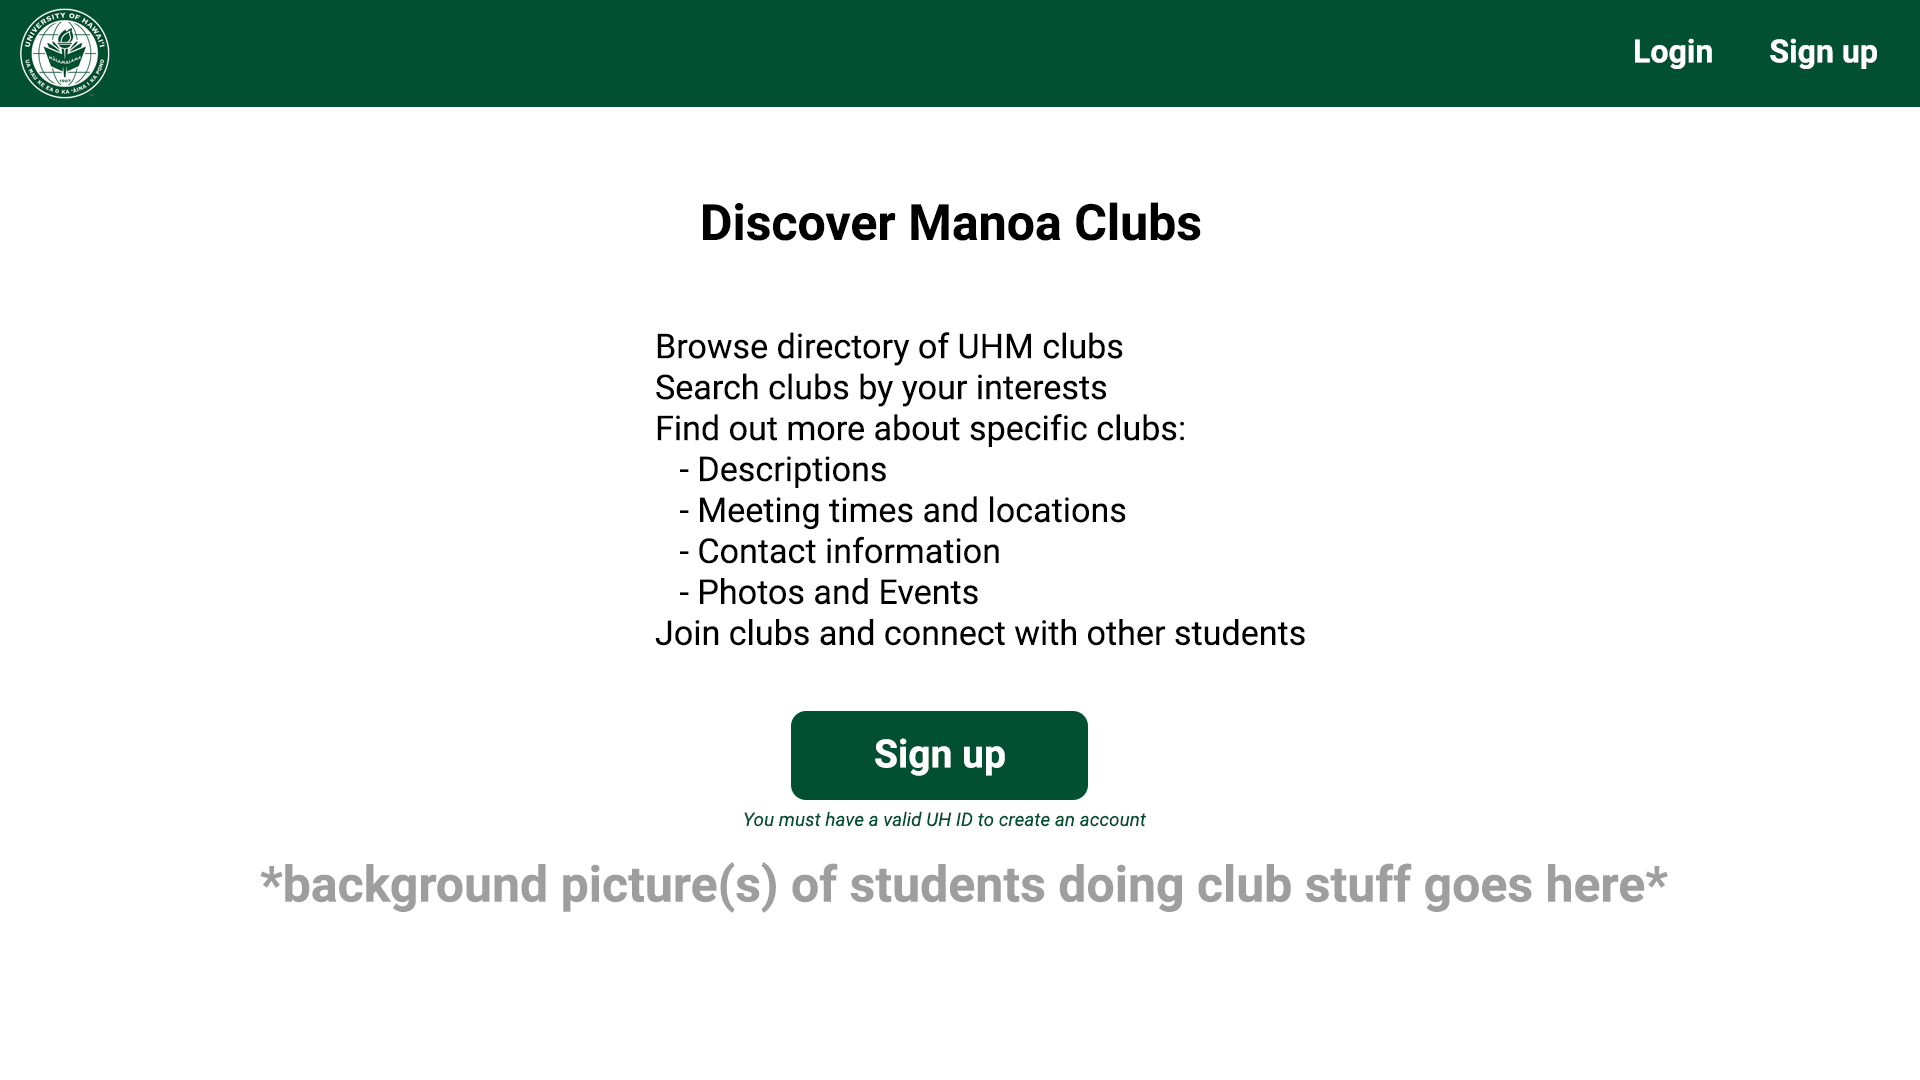
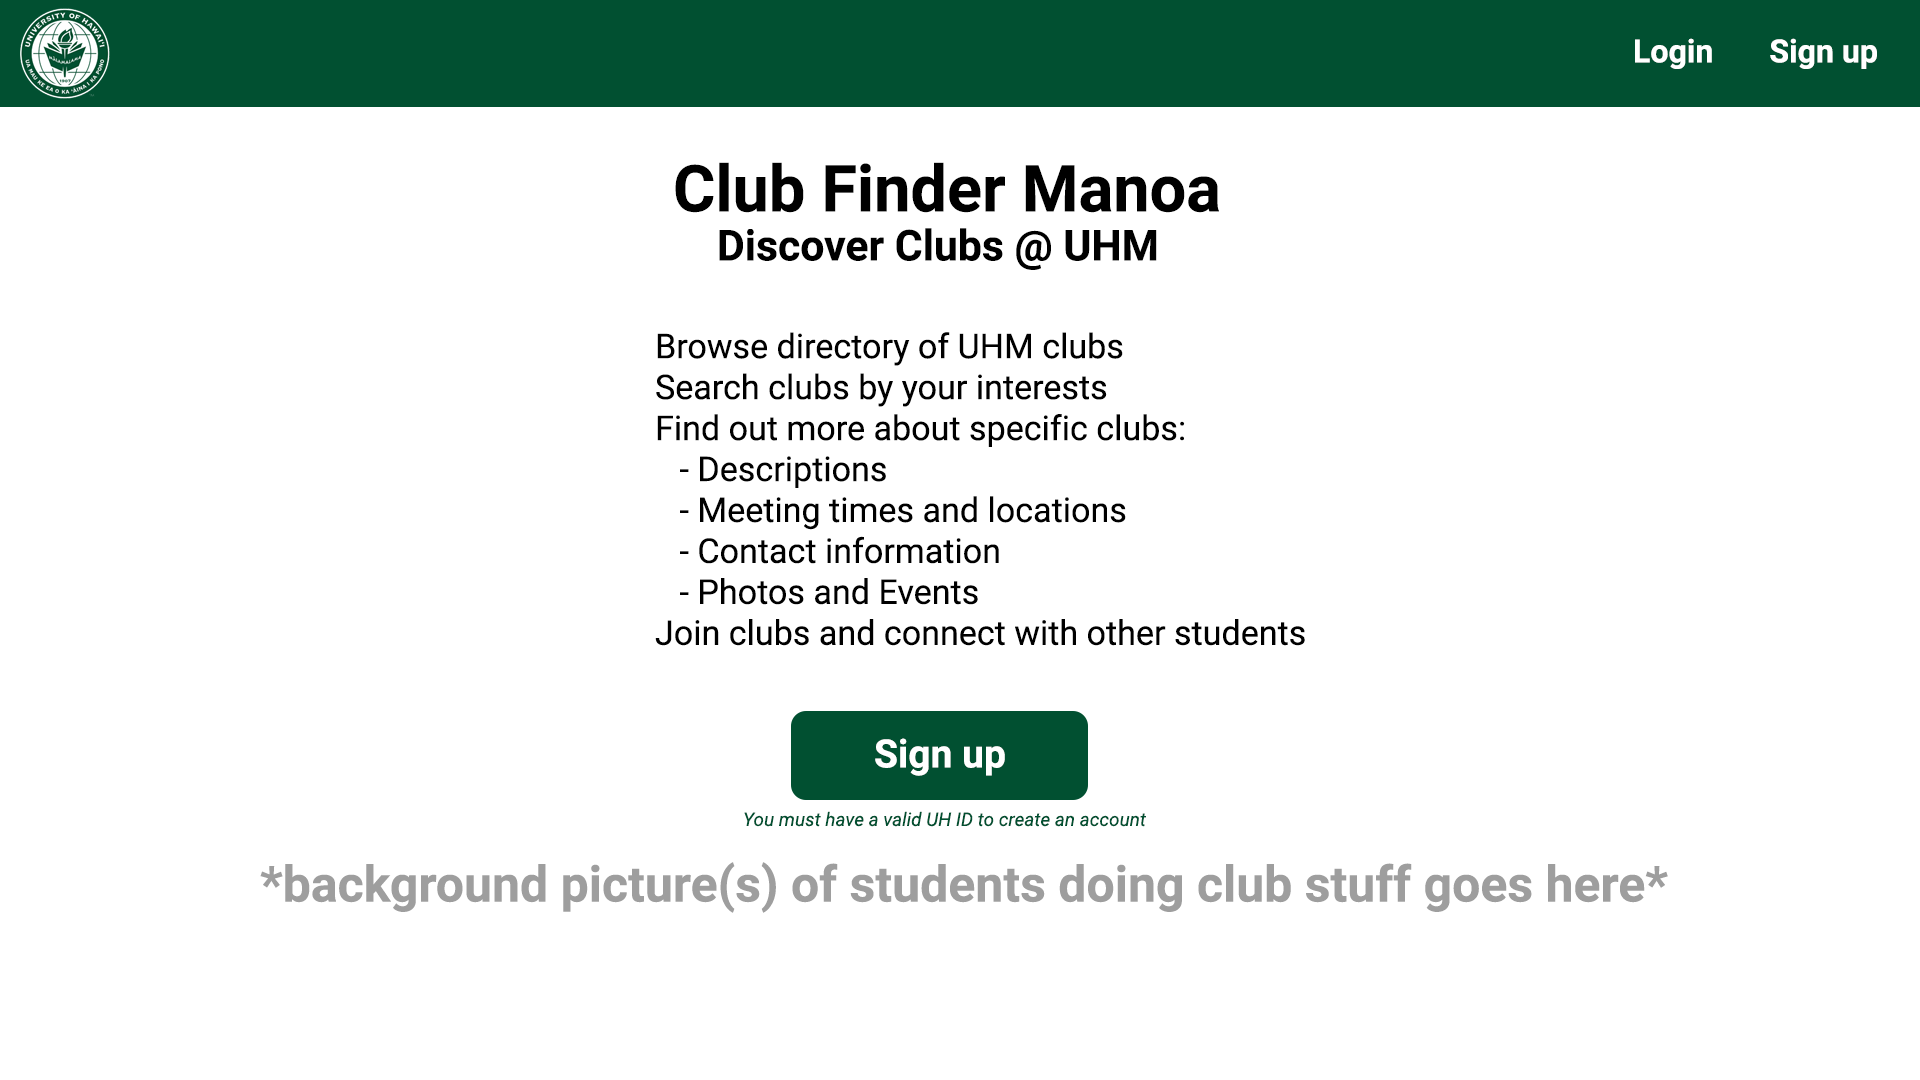
Update description & mockup images

Changed region(s): [[0.3438, 0.1528, 0.6562, 0.2444]]

diff --git a/index.md b/index.md
@@ -1,12 +1,12 @@
-# Club Finder Manoa
+# **Club Finder Manoa**
 
-## Table of contents
+## **Table of contents**
 
 * [Overview](#overview)
 * [Mockup Pages](#mockup-pages)
 * [Contact](#contact-information)
 
-## Overview
+## **Overview**
 <!-- Summarizes what the system does and what makes it special and different from other related applications -->
 
 *The problem*: UH Manoa has over 200 Registered Independent Organizations, plus many more that do not have this “official” status but are nonetheless active organizations. Unfortunately, there is no easy way for students to learn what student clubs (both registered and unregistered) exist, what they do, and how to get further involved.
@@ -24,9 +24,9 @@ Users can specify interest areas, and be notified when a new club is created mat
 
 Admins can monitor the site for inappropriate content, and create new categories of interests, capabilities, and goals.
 
-## Mockup Pages
+## **Mockup Pages**
 
-<div class="text-center">
+<div class="col d-flex justify-content-center text-center">
   <p class="pt-3">Landing page</p>
   <img width="90%" class="rounded" src="./images/landing-page.png">
 
@@ -39,19 +39,19 @@ Admins can monitor the site for inappropriate content, and create new categories
 </div>
 
 <!--
-## User Guide
+## **User Guide**
 <!-- Provide at least one screen shot of every page. This section should provide enough detail for a user to get up and running with your system (you can provide further help within the application itself)
 
-## Community Feedback
+## **Community Feedback**
 <!-- Provides information obtained from users about the system
 
-## Developer Guide
+## **Developer Guide**
 <!-- How to download, install, and run the system locally, as well as how to deploy it
 
-## Development History
+## **Development History**
 <!-- Explains the trajectory of development of the system: what was accomplished during each milestone. See the BowFolios system for details -->
 
-## Developer Contact
+## **Developer Contact**
 <!-- Explains who the developers of the system are and how to get in touch with them if you have comments or questions -->
 
 Club Finder Manoa is designed, implemented, and maintained by:
